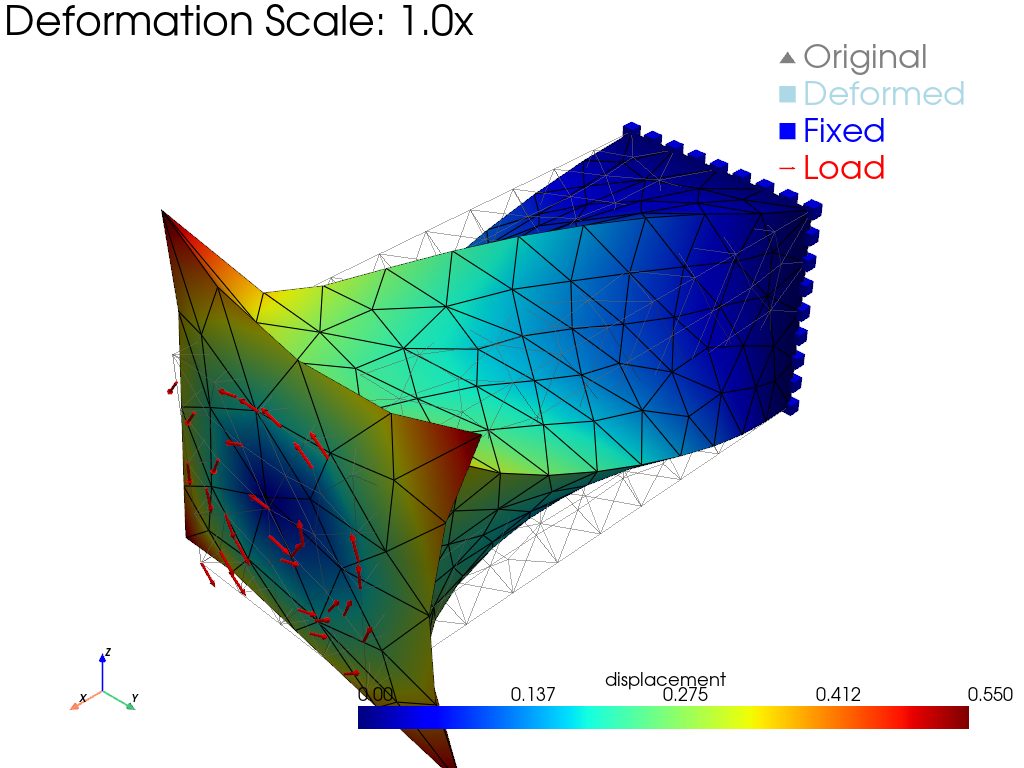
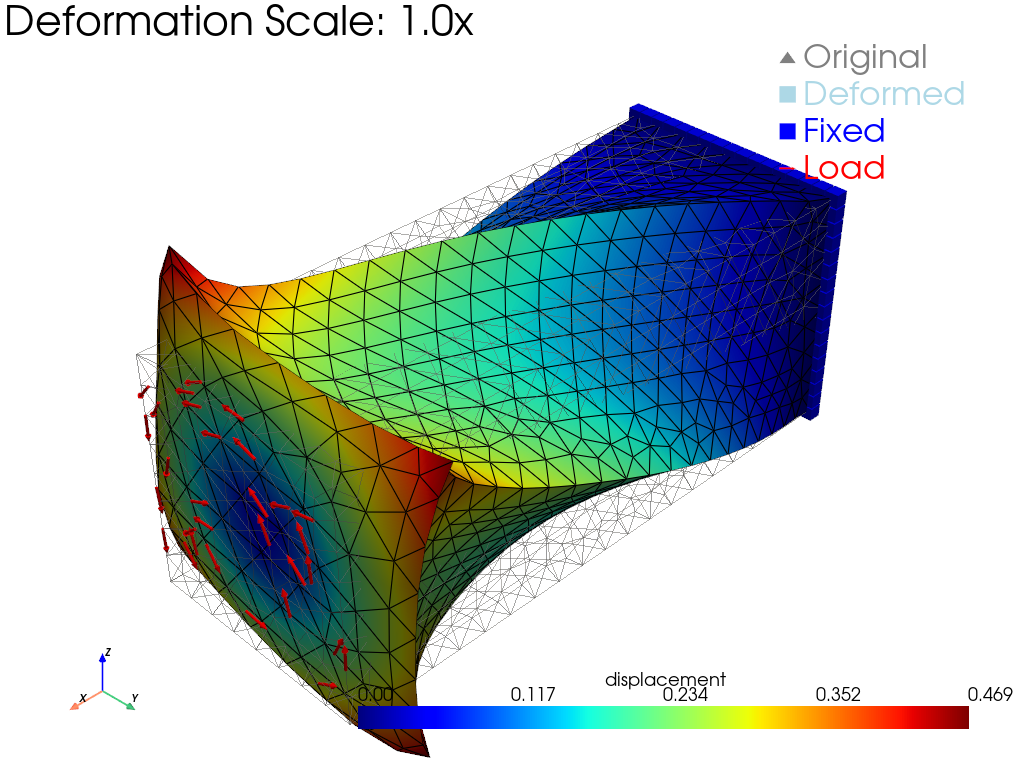
refactor(examples/solid/hyperelastic_beam) + docs:   fix hyperelastic beam torsion: integrate Neumann traction over end face
The end torque was applied as a per-node force (f_ext[node] = C*(0,-z,y)),
  not integrated over the surface. On the quadratic-tet end face the
  consistent surface integral assigns ~zero load to corner nodes and most
  of it to mid-edge nodes; the per-node scheme did the opposite, dumping
  large forces onto the corners and making them distort excessively.

  - Add TorsionTraction(FacetAssembler) computing the consistent nodal load
    f_i = ∫_Γ N_i t dA for the traction t = C*(0,-z,y) over the x=1 facets.
  - Retune C 3e4 -> 2.4e7 to reproduce the previous total end torque; the
    surface integral multiplies by facet area, ~800x smaller than the
    per-node sum. Drop the now-unnecessary net-force-removal hack (the
    consistent torsion load is self-equilibrating).
  - Refine mesh chara_length 0.1 -> 0.05 for a smoother twist.
  - Update example README, docs gallery page, zh translation, and the
    regenerated figure (assets/ + docs _static).

Changed region(s): [[0.125, 0.125, 0.8438, 1.0], [0.8125, 0.875, 0.8438, 0.9062]]

diff --git a/examples/solid/hyperelastic_beam/hyperelastic_beam.py b/examples/solid/hyperelastic_beam/hyperelastic_beam.py
@@ -23,7 +23,7 @@ sys.path.append(os.path.abspath(os.path.join(os.path.dirname(__file__), "../../.
 
 from tensormesh import Mesh, Condenser
 from tensormesh.dataset.mesh import gen_cube
-from tensormesh.assemble import ElementAssembler
+from tensormesh.assemble import ElementAssembler, FacetAssembler
 from tensormesh.material import Rubber
 from tensormesh.visualization import plot_deformation
 
@@ -59,11 +59,35 @@ class NeoHookeanModel(ElementAssembler):
         Psi = 0.5 * self.mu * (I1 - 3) - self.mu * logJ + 0.5 * self.lam * (logJ**2)
         return Psi
 
+
+class TorsionTraction(FacetAssembler):
+    """Torsional surface traction on the end face.
+
+    Defines a traction field (force per unit reference area)
+    t(x) = C * (0, -dz, dy) about the cross-section center and integrates
+    it over the boundary facets: f_i = ∫_Γ N_i t dA. 
+    """
+
+    def __post_init__(self, C, y_center, z_center):
+        self.C = C
+        self.y_center = y_center
+        self.z_center = z_center
+
+    def forward(self, v, x):
+        # v: [B] facet shape values at one quadrature point
+        # x: [D] physical coordinate at that quadrature point
+        dy = x[1] - self.y_center
+        dz = x[2] - self.z_center
+        zero = torch.zeros_like(dy)
+        t = torch.stack([zero, -dz * self.C, dy * self.C])   # traction [3]
+        return v[:, None] * t[None, :]                       # [B, 3]
+
+
 def main():
     # 1. Geometry: 1m x 0.4m x 0.4m Beam (Short & Thick)
     print("Generating Mesh...")
     # Use Quadratic Tetrahedra (order=2)
-    mesh = gen_cube(chara_length=0.1, order=2, left=0.0, right=1.0, bottom=0.0, top=0.4, front=0.0, back=0.4)
+    mesh = gen_cube(chara_length=0.05, order=2, left=0.0, right=1.0, bottom=0.0, top=0.4, front=0.0, back=0.4)
     n_nodes = mesh.points.shape[0]
     print(f"Mesh created: {n_nodes} nodes")
     print(f"Mesh bounds: {mesh.points.min(0)[0]} to {mesh.points.max(0)[0]}")
@@ -84,35 +108,24 @@ def main():
     fixed_mask = torch.abs(points[:, 0]) < eps
     fixed_indices = torch.where(fixed_mask)[0]
     
-    # 5. Load (Torsion)
-    # Apply torque at x = 1 face
+    # 5. Load (Torsion) — applied as a Neumann surface traction.
+    # Apply torque on the x = 1 face by *integrating* a traction field
+    # t(x) = C*(0, -dz, dy) over the end facets via FacetAssembler. 
     right_mask = torch.abs(points[:, 0] - 1.0) < eps
-    right_indices = torch.where(right_mask)[0]
-    
+
     # Center of the cross-section
     y_center = 0.2
     z_center = 0.2
-    
-    # Coordinates relative to center
-    dy = points[right_indices, 1] - y_center
-    dz = points[right_indices, 2] - z_center
-    
-    # Torsion Force Field: F = C * (0, -dz, dy)
-    # This creates a torque around the x-axis
-    # Magnitude
-    # Reduced to 3.0e4 to target ~0.2m displacement (reasonable twist)
-    C = 3.0e4
-    
-    f_ext = torch.zeros_like(points)
-    f_ext[right_indices, 1] = -dz * C
-    f_ext[right_indices, 2] = dy * C
-    
-    # Ensure pure torque (remove spurious net force due to mesh irregularity)
-    # This prevents the beam from bending "up" or "sideways" inadvertently
-    f_y_net = f_ext[right_indices, 1].sum()
-    f_z_net = f_ext[right_indices, 2].sum()
-    f_ext[right_indices, 1] -= f_y_net / len(right_indices)
-    f_ext[right_indices, 2] -= f_z_net / len(right_indices)
+    C = 2.4e7
+
+    traction = TorsionTraction.from_mesh(
+        mesh,
+        boundary_mask=right_mask,   # integrate only over the x=1 end facets
+        quadrature_order=4,         # linear traction x P2 shape -> cubic on facet
+        C=C, y_center=y_center, z_center=z_center,
+    )
+    # Consistent nodal load vector on the reference configuration (dead load).
+    f_ext = traction().reshape(points.shape)   # [n_nodes, 3]
     
     # 6. Optimization (Energy Minimization)
     u = torch.zeros_like(points, requires_grad=True)

diff --git a/docs/source/example_gallery/solid/hyperelastic_beam.rst b/docs/source/example_gallery/solid/hyperelastic_beam.rst
@@ -39,9 +39,12 @@ incompressible).
 Boundary conditions:
 
 * clamp at :math:`x = 0`: :math:`\mathbf{u} = \mathbf{0}`,
-* torsional load at :math:`x = 1`: a force field
-  :math:`\mathbf{F} = C\, (0, -z, y)` with
-  :math:`C = 3 \times 10^4`, ramped over 10 load steps,
+* torsional load at :math:`x = 1`: a Neumann traction
+  :math:`\mathbf{t} = C\, (0, -z, y)` with
+  :math:`C = 2.4 \times 10^7`, integrated over the end facets with
+  :class:`~tensormesh.FacetAssembler` to give a consistent nodal load
+  :math:`f_i = \int_\Gamma N_i\, \mathbf{t}\, \mathrm{d}A`, ramped over 10 load
+  steps,
 * all other surfaces: traction-free.
 
 
@@ -74,7 +77,7 @@ for L-BFGS:
                    - self.mu * logJ
                    + 0.5 * self.lam * logJ**2)
 
-   mesh = gen_cube(chara_length=0.1, order=2,
+   mesh = gen_cube(chara_length=0.05, order=2,
                    left=0, right=1.0, bottom=0, top=0.4,
                    front=0, back=0.4)
    model = NeoHookeanModel.from_mesh(mesh, mu=mu, lam=lam)

diff --git a/examples/solid/hyperelastic_beam/README.md b/examples/solid/hyperelastic_beam/README.md
@@ -9,7 +9,10 @@ Large deformation of a rubber beam under torsion using a compressible Neo-Hookea
   - Strain energy: Psi = mu/2 (I1 - 3) - mu ln(J) + lam/2 (ln J)^2
 - **Boundary Conditions:**
   - Left end (x=0): fully clamped
-  - Right end (x=1): torsional force field F = C*(0, -dz, dy) with C=3e4
+  - Right end (x=1): torsional Neumann traction t = C*(0, -dz, dy), C=2.4e7,
+    integrated over the end facets with `FacetAssembler` (∫_Γ N_i t dA) to get
+    a consistent nodal load. Applying the field as a per-node force instead
+    over-loads the corner nodes and makes them distort excessively.
 - **Solver:** LBFGS energy minimization with 10 load steps (ramped torsion)
 
 ## Usage